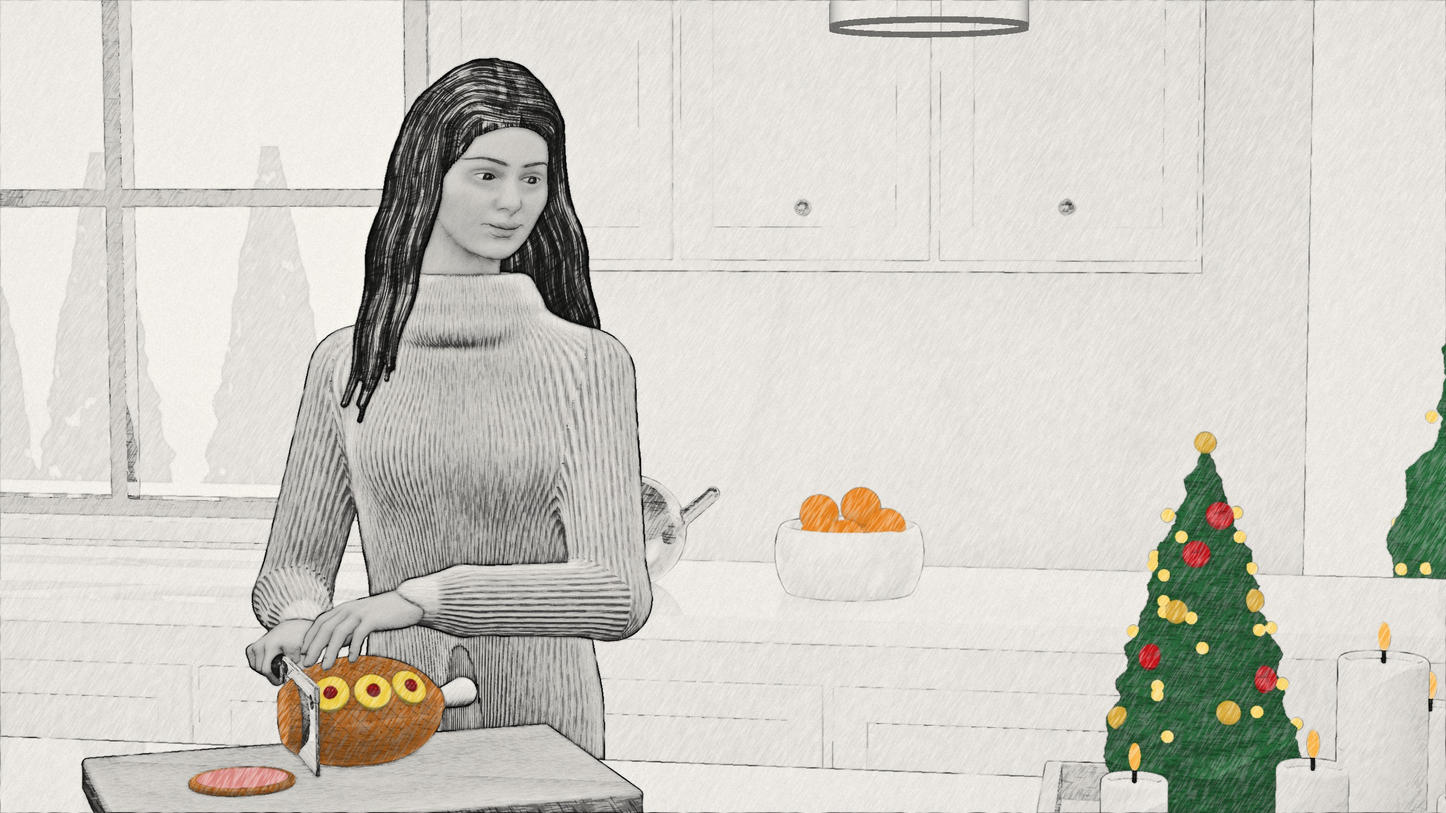
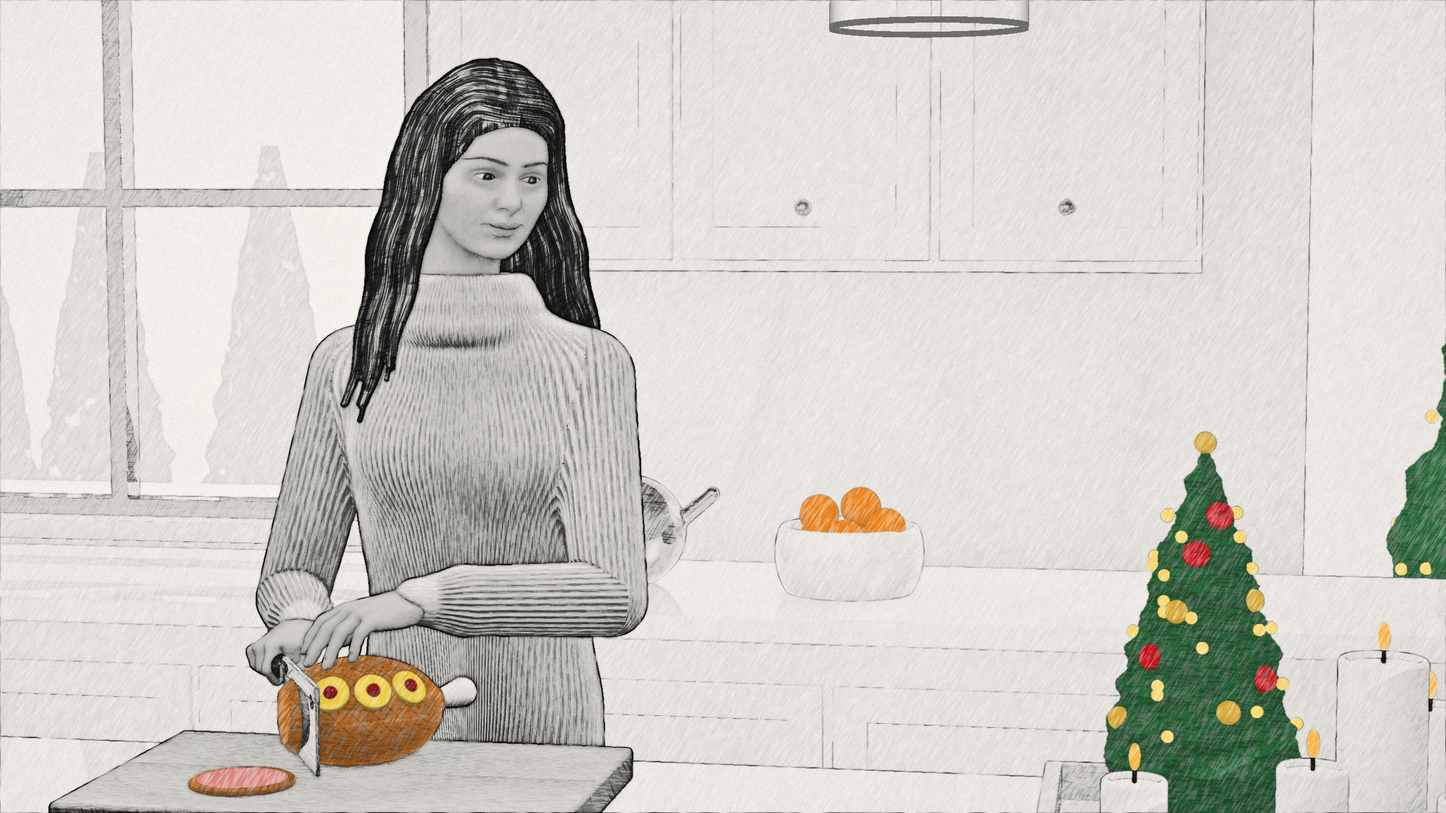
Fix tummy dent, square the board, add automatic whole-body checks
The roll-neck hole was cut down through the whole torso, denting the
jumper's front; limit it to the neck. Forearms are joined without
webbing into the body. The chopping board now sits square and fully on
the island. New checks.py runs before every render and stops it if a
hand leaves its sleeve, sinks into food, an arm has the wrong length or
pushes into the body, the jumper has a dent, or the board or food
overhangs.

Claude-Session: https://claude.ai/code/session_01JkpWMqwvTDQ8r5BEboUFAW

diff --git a/source/checks.py b/source/checks.py
@@ -1,0 +1,90 @@
+"""Automatic whole-scene checks, run before every render (and later, on every frame of an animation).
+
+Each check looks for something a viewer would notice at once: a hand not attached to its arm, a hand sinking
+into (or floating above) what it touches, an arm pushing into the body, limbs of impossible length, a board
+hanging off the worktop, food off the board. A failed check stops the render and says what is wrong, in
+millimetres, so a fix to one part can't silently break another.
+
+    python3 checks.py        run them all and print a report
+"""
+import numpy as np
+
+
+def _torso_clearance(MS, p):
+    """Roughly how far a point is outside the jumper's torso (negative = inside), from the body profile."""
+    prof = MS.BODY_PROFILE[::-1]
+    y = np.clip(p[1], prof[0, 0], prof[-1, 0])
+    w, fr, bk = (np.interp(y, prof[:, 0], prof[:, c]) for c in (1, 2, 3))
+    zz = p[2] - MS.body_cz(y)
+    D, N = (fr, 2.3) if zz > 0 else (bk, 2.4)
+    F = ((abs(p[0]) / w) ** N + (abs(zz) / D) ** N) ** (1 / N)
+    r = np.hypot(p[0], zz)
+    return r * (1 - 1 / max(F, 1e-6))
+
+
+def run(MS=None, verbose=True):
+    if MS is None:
+        import mother_scene as MS
+    problems, report = [], []
+
+    def check(ok, what, detail):
+        report.append(('ok  ' if ok else 'FAIL') + '  ' + what + ': ' + detail)
+        if not ok:
+            problems.append(what + ': ' + detail)
+
+    parts = MS.get_mh_hands()
+    names = ('right hand', 'left hand')
+    # 1. every hand is joined to its sleeve
+    for (origin, R, w, f), part, nm in zip(MS.HANDS, parts, names):
+        gap = np.linalg.norm(origin + R @ part[1] - w) * 1000
+        check(gap < 3, nm + ' joins its sleeve', f'{gap:.1f} mm gap')
+    # 2. the resting hand touches the food without sinking into it; the chopping hand stays clear of it
+    pts = [origin + MS._surface_points(part[0]) @ R.T for (origin, R, _, _), part in zip(MS.HANDS, parts)]
+    dl = MS.ham_distance(pts[1])
+    check(dl.min() > -0.003, 'left hand does not sink into the ham', f'deepest {-dl.min() * 1000:.1f} mm in')
+    check(dl.min() < 0.003, 'left hand actually rests on the ham', f'closest {dl.min() * 1000:.1f} mm')
+    dr = MS.ham_distance(pts[0])
+    check(dr.min() > 0, 'right hand clear of the ham', f'{dr.min() * 1000:.1f} mm')
+    # 3. arms: sensible lengths, forearms not pushing into her body
+    for sh, el, wr, nm in ((MS.R_SHOULDER, MS.R_ELBOW, MS.R_WRIST, 'right'), (MS.L_SHOULDER, MS.L_ELBOW, MS.L_WRIST,
+                                                                           'left')):
+        up, lo = np.linalg.norm(el - sh), np.linalg.norm(wr - el)
+        check(0.26 < up < 0.36 and 0.22 < lo < 0.30, nm + ' arm lengths',
+              f'upper {up * 100:.0f} cm, forearm {lo * 100:.0f} cm')
+        clear = min(_torso_clearance(MS, el + (wr - el) * t) for t in np.linspace(0.15, 1, 12))
+        check(clear > 0.045, nm + ' forearm clear of her body', f'{clear * 100:.1f} cm from the jumper')
+    # 4. no dents or holes in the jumper: its front surface changes smoothly across her body
+    lo, d, vox, part = MS.get_body_grid()  # part: 0 torso, 1-2 sleeves (sleeves in front are not dents)
+    worst = 0.0
+    for y in np.arange(0.90, 1.40, 0.02):
+        j = int(round((y - lo[1]) / vox))
+        zs = []
+        for x in np.arange(-0.12, 0.121, 0.01):
+            i = int(round((x - lo[0]) / vox))
+            k = np.nonzero((d[i, j, :] < 0) & (part[i, j, :] == 0))[0]
+            zs.append(lo[2] + k.max() * vox if len(k) else np.nan)
+        zs = np.array(zs)
+        if np.isfinite(zs).all():
+            worst = max(worst, np.abs(np.diff(zs)).max())
+    check(worst < 0.02, 'jumper front has no dents', f'largest step {worst * 100:.1f} cm between neighbours 1 cm apart')
+    # 5. the board lies flat and fully on the island; the food is on the board
+    I = MS.ISLAND
+    c, h = MS.BOARD_C, MS.BOARD_HALF
+    corners = [c + np.array([sx * h[0], 0, sz * h[2]]) for sx in (-1, 1) for sz in (-1, 1)]
+    inside = all(I['x0'] < q[0] < I['x1'] and I['z0'] < q[2] < I['z1'] for q in corners)
+    check(inside, 'board fully on the island', 'all corners on the worktop' if inside else 'a corner overhangs')
+    check(abs(c[1] - h[1] - I['top']) < 0.002, 'board sits on the worktop', f'{(c[1] - h[1] - I["top"]) * 1000:.1f} mm')
+    Rh_ = np.stack([MS.RACK_A, [0, 1.0, 0], MS.HAM_ACROSS], 1)
+    rim = [MS.HAM_C + Rh_ @ np.array([MS.HAM_R[0] * np.cos(t), 0, MS.HAM_R[2] * np.sin(t)])
+           for t in np.linspace(0, 2 * np.pi, 24)]
+    on = all(abs(q[0] - c[0]) < h[0] and abs(q[2] - c[2]) < h[2] for q in rim)
+    check(on, 'ham on the board', 'within the board' if on else 'hangs over the edge')
+    if verbose:
+        print('\n'.join(report))
+    if problems:
+        raise RuntimeError('scene checks failed:\n  ' + '\n  '.join(problems))
+    return report
+
+
+if __name__ == '__main__':
+    run()

diff --git a/source/mother_scene.py b/source/mother_scene.py
@@ -399,6 +399,7 @@ def head_rotation():
 HEAD_POS = NECK_BASE - head_rotation() @ np.array([0.0, -0.205, -0.052])
 
 # the cleaver, the meat and the board (see build_props); the hands are placed from these
+BOARD_C, BOARD_HALF = np.array([-0.03, 0.940, -0.330]), np.array([0.285, 0.020, 0.190])  # lies square on the island
 RACK_ANGLE = -30.0  # the blade points forward and a little to her left, as a right-handed cook's does; this is
                     # the angle at which her arm falls naturally (elbow at her side, wrist bent ~35 degrees)
 RACK_A = np.array([np.cos(np.radians(RACK_ANGLE)), 0.0, np.sin(np.radians(RACK_ANGLE))])   # along the rack
@@ -844,18 +845,26 @@ def body_grid(voxel=0.0025):
     for y, R0, r in ((1.458, 0.080, 0.021), (1.484, 0.075, 0.019), (1.505, 0.067, 0.016)):
         q = np.sqrt(X ** 2 + (Z - nz) ** 2) - R0
         d = smin(d, (np.sqrt(q ** 2 + (Y - y) ** 2) - r).astype(np.float32), 0.012)
-    d = ssub(d, (np.sqrt(X ** 2 + (Z - nz) ** 2) - 0.052).astype(np.float32) * np.ones_like(Y), 0.004)
+    # the opening of the roll neck - only through the collar, not down through her whole body
+    hole = np.sqrt(X ** 2 + (Z - nz) ** 2) - 0.052
+    hole = np.maximum(hole, 1.43 - Y)
+    d = ssub(d, hole.astype(np.float32), 0.004)
     # sleeves; remember which part is nearest everywhere, so the knit can run the right way
     torso = d.copy()
     arm_d = []
     for sh, el, wr in ((R_SHOULDER, R_ELBOW, R_WRIST), (L_SHOULDER, L_ELBOW, L_WRIST)):
         fore = (wr - el) / np.linalg.norm(wr - el)
         cuff = wr - fore * 0.050
-        a = smin(np_cone(X, Y, Z, sh, el, 0.052, 0.045), np_cone(X, Y, Z, el, cuff, 0.045, 0.039), 0.02)
+        upper = np_cone(X, Y, Z, sh, el, 0.052, 0.045)
+        lower = np_cone(X, Y, Z, el, cuff, 0.045, 0.039)
         # a ribbed cuff hugs the wrist and ends in a rounded fold just over the heel of the hand
-        a = smin(a, np_cone(X, Y, Z, cuff, wr + fore * 0.014, 0.037, 0.027), 0.012)
+        lower = smin(lower, np_cone(X, Y, Z, cuff, wr + fore * 0.014, 0.037, 0.027), 0.012)
+        a = smin(upper, lower, 0.02)
         arm_d.append(a.astype(np.float32))
-        d = smin(d, a, 0.035)
+        # only the upper arm melts into the jumper (at the shoulder seam); a forearm resting across her front
+        # stays a separate sleeve, never webbed to her tummy
+        d = smin(d, upper, 0.035)
+        d = np.minimum(d, lower)
     part = np.zeros(d.shape, np.float32)
     part[(arm_d[0] < torso) & (arm_d[0] <= arm_d[1])] = 1
     part[(arm_d[1] < torso) & (arm_d[1] < arm_d[0])] = 2
@@ -884,7 +893,7 @@ def build_body(b, grid=None):
 def build_props(b):
     b.set_frame((0, 0, 0), None)
     b.group('board', margin=0.01)
-    b.box((-0.03, 0.940, -0.330), (0.285, 0.020, 0.190), WOOD, op=UNION, r=0.006, R=rot(yaw=-RACK_ANGLE))
+    b.box(BOARD_C, BOARD_HALF, WOOD, op=UNION, r=0.006)  # square to the island's edges
     # the ham: glazed, scored in diamonds and studded with cloves (see the MEAT texture), sitting a little
     # flattened on the board, the shank bone at the far end dressed in a paper frill
     b.group('ham', margin=0.02)
@@ -1313,7 +1322,7 @@ def build_character(smile=1.0, cache=None):
     SP[124] = (CUT_C - HAM_CUT * RACK_A - HAM_C) @ RACK_A  # where the pink cut face is, along the ham
     # lip colour, fitted to her measured mouth (corners 22 mm out, lips from 52 to 73.5 mm below the eyes)
     SP[100:106] = [0.022, -0.0590, -0.0525, 0.0010, -0.0632, -0.0735]
-    board_x = rot(yaw=-RACK_ANGLE) @ np.array([1.0, 0, 0])
+    board_x = np.array([1.0, 0, 0])
     SP[46:49] = board_x
     return b, SP, cache
 
@@ -1374,6 +1383,8 @@ def render_shot(out_dir, W=1280, H=720, crop=None):
     from PIL import Image
     os.makedirs(out_dir, exist_ok=True)
     t0 = time.time()
+    import checks
+    checks.run()  # stops here, with a reason, if anything is visibly wrong
     b, SP, cache = build_character()
     flames = build_environment(b, SP)
     P, G = b.build()

diff --git a/source/graphite.py b/source/graphite.py
@@ -278,7 +278,7 @@ def draw(npz_path, out_path, scale=1.0, seed=3, crop=None, px=None):
     vx = np.where(skin, fx / fl, vx).astype(np.float32)
     vy = np.where(skin, fy / fl, vy).astype(np.float32)
     # the board along its grain, the blade along its length
-    bdx, bdy = project_dirs(np.broadcast_to(MS.rot(yaw=-MS.RACK_ANGLE) @ np.array([1.0, 0, 0]), pos.shape), pos, cam, W, H)
+    bdx, bdy = project_dirs(np.broadcast_to(np.array([1.0, 0, 0]), pos.shape), pos, cam, W, H)
     wood = mat == MS.WOOD
     vx = np.where(wood, bdx, vx)
     vy = np.where(wood, bdy, vy)

diff --git a/guides/character-anatomy.md b/guides/character-anatomy.md
@@ -149,4 +149,15 @@ realistic-shaped face with a too-smooth surface, or realistic skin on wrong prop
 - [ ] Every hand–object contact measured in 3D; no gaps or overlaps
 - [ ] Thumb opposes the fingers; wrist straight
 - [ ] Looked at the whole picture (not just the part changed) at full size *and* phone size
-- [ ] Every hand joins its arm (checked automatically)
+- [ ] `source/checks.py` passes (it runs automatically before every render)
+
+## 8. The automatic whole-body checks (`source/checks.py`)
+Run before every render, and on **every frame** once she moves; a failure stops the render and says what is
+wrong in millimetres. Add a new check whenever a new kind of mistake is found, so it can never come back.
+- Each hand joins the end of its sleeve (gap under 3 mm).
+- The resting hand touches the food without sinking in; the chopping hand stays clear of it.
+- Upper arm and forearm lengths are human (26-36 cm and 22-30 cm).
+- Forearms stay clear of her body (no arm melting into the jumper).
+- The jumper's front has no dents or holes. (The tummy dip came from the roll-neck's hole being cut down
+  through her whole body; the hole is now limited to the neck.)
+- The chopping board lies flat, fully on the worktop; the food sits on the board.
